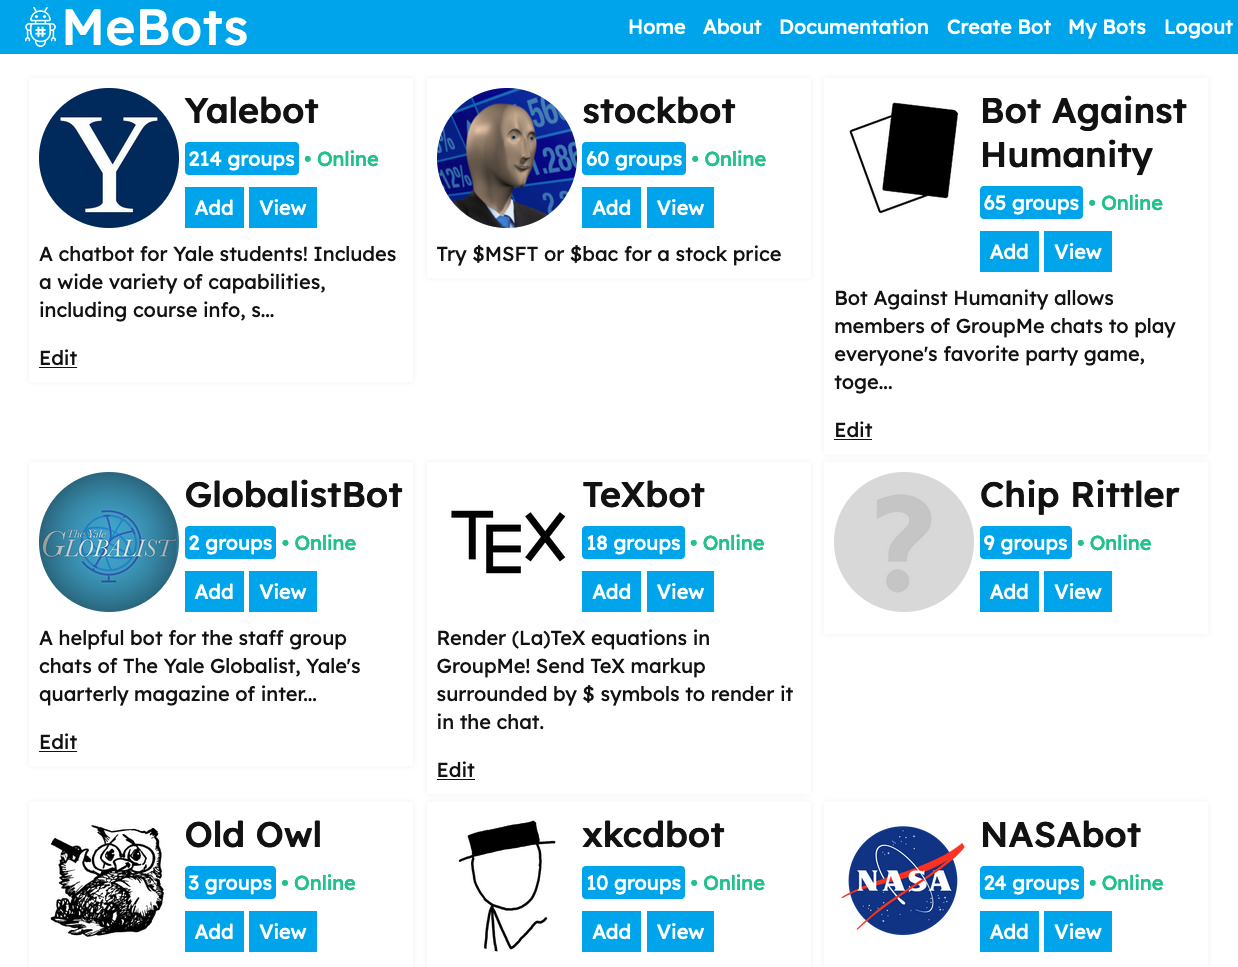
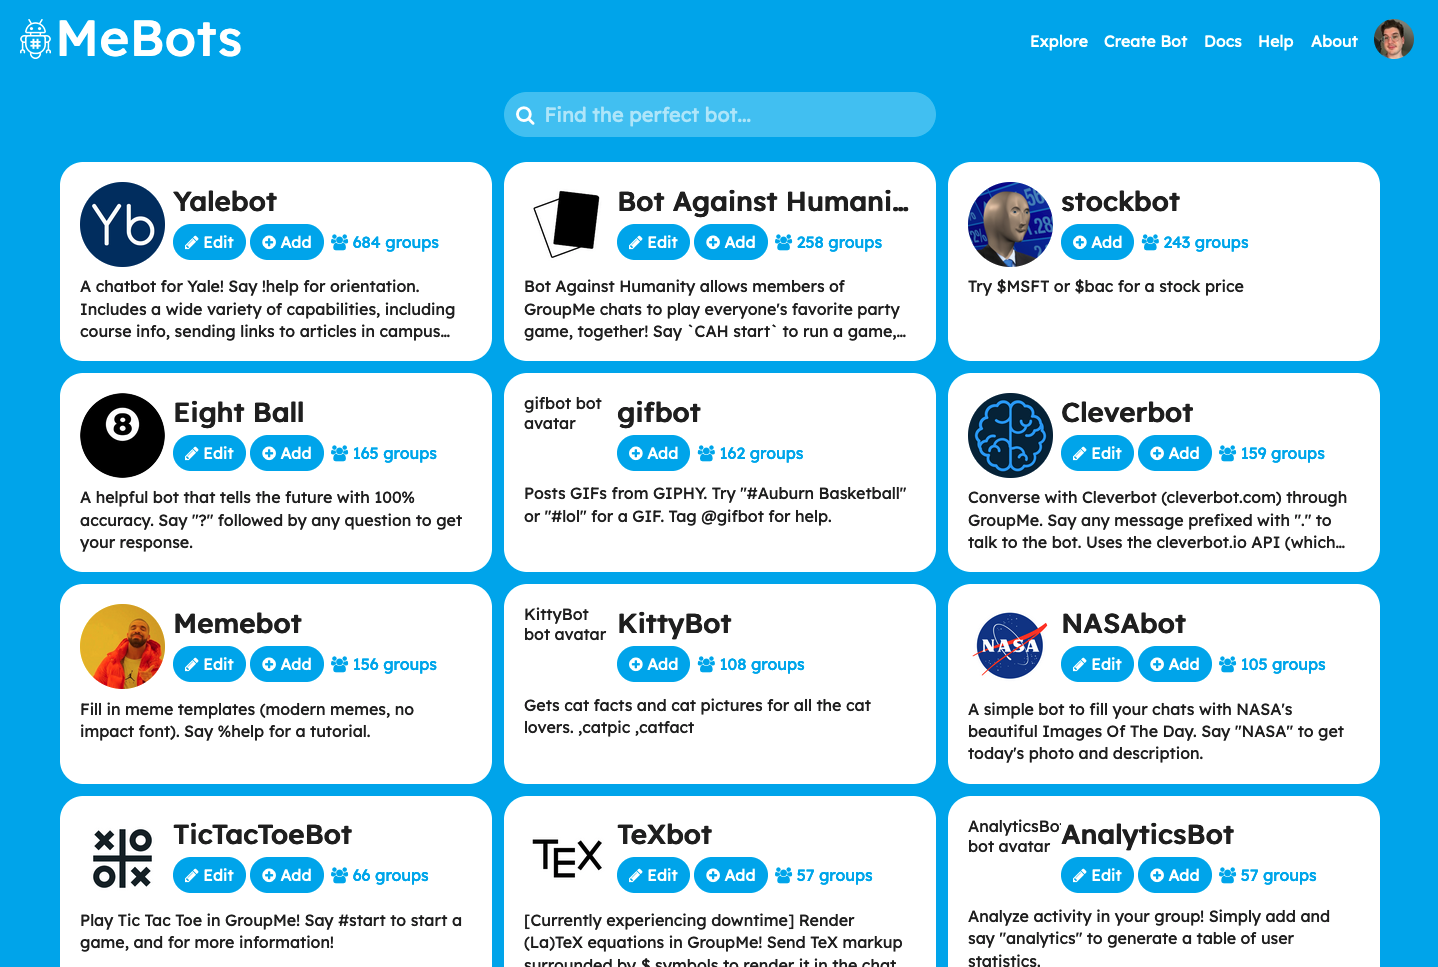
Update README screenshot

diff --git a/README.md b/README.md
@@ -1,7 +1,7 @@
 # [MeBots](https://mebots.io)
 [![Build Status](https://travis-ci.org/ErikBoesen/MeBots.svg?branch=master)](https://travis-ci.org/ErikBoesen/MeBots)
 
-> A simple API framework for managing large-scale GroupMe bots.
+> The app store for GroupMe bots, with a simple API framework for managing bots at scale.
 
 ![Banner](app/static/images/logo/banner.png)
 ![Screenshot](screenshot.png)
